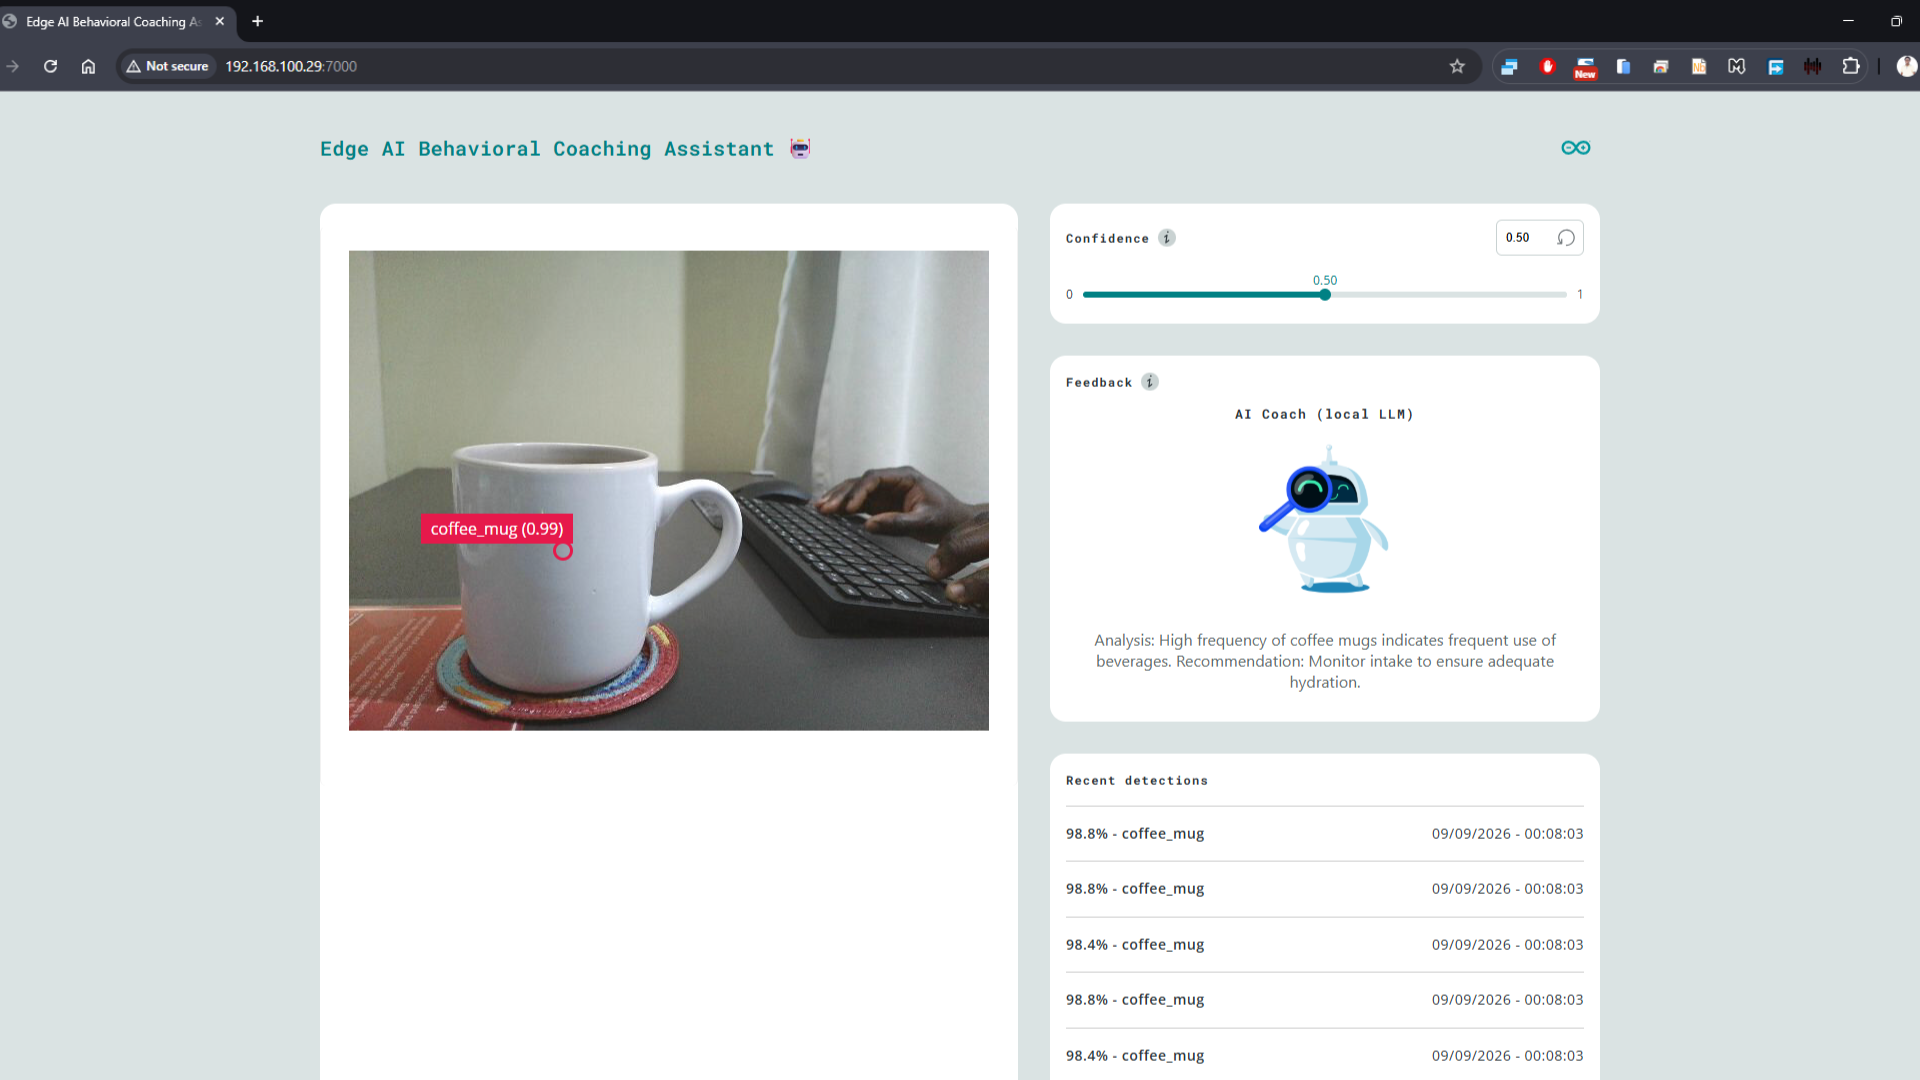
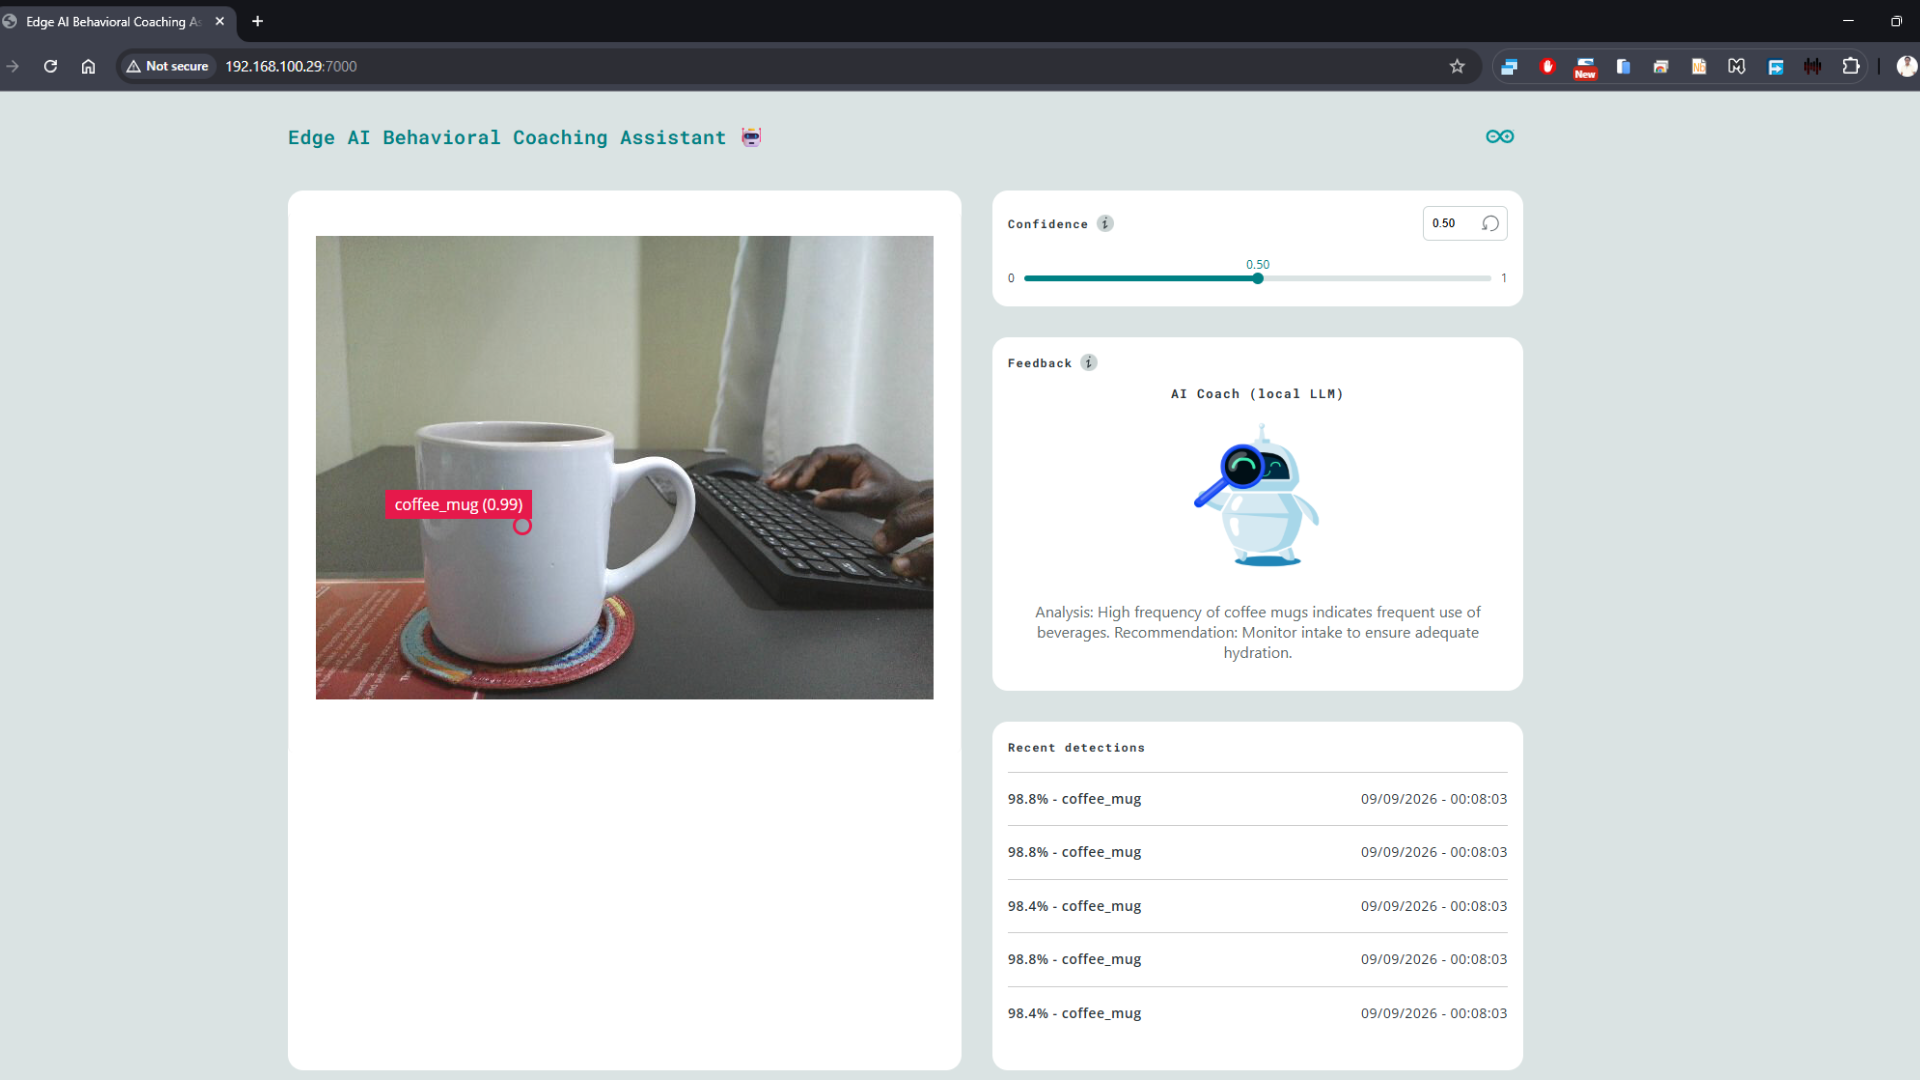
Updated README

Changed region(s): [[0.125, 0.1222, 0.8438, 1.0], [0.8125, 0.1222, 0.8438, 0.1528]]

diff --git a/python/main.py b/python/main.py
@@ -27,8 +27,6 @@ detection_stream = VideoObjectDetection(
 
 llm = LargeLanguageModel()
 
-
-# Log detected objects
 behavior_history = []
 last_coaching_time = time.monotonic()
 last_event_time = {}
@@ -93,29 +91,19 @@ def format_llm_response(raw_text):
         return ""
 
     text = str(raw_text).strip()
-
-    # Remove markdown formatting
-    text = re.sub(r"[*_`#]", "", text)
-
-    # Normalize line endings
-    text = text.replace("\r\n", "\n")
-
-    # Remove duplicated blank lines
-    text = re.sub(r"\n{2,}", "\n", text)
-
+    text = re.sub(r"[*_`#]", "", text) # Remove markdown formatting
+    text = text.replace("\r\n", "\n") # Normalize line endings
+    text = re.sub(r"\n{2,}", "\n", text) # Remove duplicated blank lines
     lines = [
         line.strip()
         for line in text.split("\n")
         if line.strip()
     ]
-
     analysis = None
     recommendation = None
 
     for line in lines:
-
         lower = line.lower()
-
         if lower.startswith("analysis:"):
             analysis = line[len("analysis:"):].strip()
 
@@ -129,14 +117,12 @@ def format_llm_response(raw_text):
             f"Recommendation: {recommendation}"
         )
 
-    # Fallback: try to extract old formats
+    # Try to extract old formats
     pattern = None
     coaching = None
 
     for line in lines:
-
         lower = line.lower()
-
         if lower.startswith("pattern:"):
             pattern = line[len("pattern:"):].strip()
 
@@ -164,7 +150,6 @@ def run_coaching_sync(events, duration_seconds):
     is_llm_running = True
 
     try:
-
         print()
         print("[LLM process] ====== STARTING AI BEHAVIORAL COACH ======")
 
@@ -173,14 +158,10 @@ def run_coaching_sync(events, duration_seconds):
         print()
         print("[LLM process] Aggregated observations:")
         print(aggregated_summary)
-
         prompt = create_coaching_prompt(aggregated_summary)
-
         print()
         response = llm.chat(prompt)
-
         clean_response = format_llm_response(response)
-
         print("[LLM process] AI Coach response:")
         print(clean_response)
 
@@ -233,7 +214,6 @@ def on_detection(detections):
             }
         )
 
-
         # Debounce object detections
         previous_time = last_event_time.get(key)
         if (
@@ -253,9 +233,7 @@ def on_detection(detections):
 
         print(f"[Debug] Detected object recorded {timestamp} | {key}")
 
-
-    # Check LLM prompting timer
-    elapsed_seconds = (current_time - last_coaching_time)
+    elapsed_seconds = (current_time - last_coaching_time) # Check LLM prompting timer
 
     if elapsed_seconds < AI_COACHING_INTERVAL_SECONDS:
         return
@@ -263,7 +241,6 @@ def on_detection(detections):
     # Prompt LLM if observations exist
     if behavior_history:
         events_to_analyze = list(behavior_history)
-
         run_coaching_sync(events_to_analyze,elapsed_seconds)
 
     else:

diff --git a/README.md b/README.md
@@ -2,17 +2,17 @@
 
 ![Detect objects and describe them](assets/docs_assets/cover-image.png)
 
-This project demonstrates how we can leverage modern hardware and optimized software such as TinyML models and Small Language Models (SLMs) to create sustainable AI powered coaching assistants that run on cost effective devices such as Arduino UNO Q.
+This project demonstrates how we can leverage modern hardware and optimized software such as TinyML models and Small Language Models (SLMs) to create sustainable AI powered behavioral coaching assistants that run on cost effective hardware such as an Arduino UNO Q.
 
-The project uses a perception model (TinyML model) to observe activities and the classifications are stored over time into a simple observations list. Afterwards, the system periodically summarizes the last observations into a simple activity-descriptive text that is provided to an LLM for generating a short behavioral recommendation. Summarizing the observation enables us to reduce the amount of information passed to the LLM, reducing the prompt size and response duration.
+The project uses a perception layer (lightweight object detection) to observe activities and the detections are stored over time into a simple observations list. Afterwards, the system periodically summarizes observations into a simple activity-descriptive text that is provided to an SLM for generating a short behavioral recommendation such as "Drink more water and use coffee less frequently". Summarizing the observation enables us to reduce the amount of information passed to the SLM, reducing the prompt size and computing time.
 
-In this case, the perception model and language model serve different roles:
+In this case, the perception and language models serve different roles:
 
-Computer Vision model (What is happening?) → Behavioral Memory (Summarize what has been happening over time) → Large Language Model (Provide wellness-based recommendation)
+Perception layer (What is happening?) → Behavioral memory layer (Summarize what has been happening over time) → Small Language Model (Provide wellness-based recommendation)
 
 ![Project summary](assets/docs_assets/project-summary.png)
 
-For the current demonstration, the perception model is a simple object detection model that can detect a glass of water and coffee mug in a frame. Below is an example of the observations summary provided to the LLM:
+For the current demonstration, the perception layer uses a simple object detection model that can detect a glass of water and coffee mug in an image. Below is an example of the observations summary provided to the SLM. This is embedded in the prompt together with other instructions for the model:
 ```
 Observation period: approximately 60 seconds
 
@@ -22,7 +22,7 @@ Observed activities:
 ```
 
 > [!NOTE]
-> I focused on object detection and temporal aggregation rather than consumption tracking. For example, the application does not determine if a glass of water was picked, consumed and returned with less amount of water. This is the same case for detecting coffee mugs. The perception model simply detects visible objects and increments a counter over the observation duration. In future, there is need for advancing the activity recognition to distinguish the presence of an object and interactions with it.
+> I focused on object detection and temporal aggregation of observations count rather than consumption tracking. For example, the application does not determine if a glass of water was picked, consumed and returned with less amount of water. This is the same case for coffee mugs: detecting a mug does not mean that coffee was consumed. The perception model simply detects visible objects and records the observation. In future, there is need for advancing the activity recognition to distinguish the presence of an object and interactions with it.
 
 
 ## Hardware and Software Requirements
@@ -37,6 +37,8 @@ Observed activities:
 - Edge Impulse Studio
 - Arduino App Lab
 - Local Small Language Models available in App Lab:  Qwen, LLama, Gemma
+
+Qwen 3.5 0.8B was used for this project.
 
 ## How to Use the Application
 
@@ -57,7 +59,7 @@ git clone https://github.com/SolomonGithu/ai-behavioral-coaching-assistant.git
 
 3. In App Lab, click the Large Language Model (LLM) brick and navigate to the 'AI models' tab. Download and select one of the available models. For this project, I used Qwen 3.5 0.8B because it is relatively small and will be faster to get a response from it. Other supported models can also be used depending on your hardware and use case.
 
-![Install LLM](assets/docs_assets/download-llm.png)
+![Install LLM](assets/docs_assets/download-slm.png)
 
 4. Finally, start the application with the 'Run' button. Running the application for the first time will take some seconds since the system needs to download the necessary Docker images. Once this is finished the application's container will be started and the Web UI will automatically open in a browser. You can also open the Web UI manually in a browser by setting URL to the local IP address of your Arduino UNO Q and port 7000.
 
@@ -67,7 +69,7 @@ Once the app is running, it will:
 - Display the detected objects in the Web UI.
 - Store observations as behavioral events for the defined duration (```AI_COACHING_INTERVAL_SECONDS``` variable in main.py)
 - Periodically summarize observations.
-- Provide the observations summary to the local language model. *In my setup, response time from the LLM was around 60 seconds, peak CPU utilization was approximately 94% while RAM consumption was 1.25GB out of the available 3.58GB.*
+- Provide the observations summary to the local language model. *In my setup, response time from the SLM was around 60 seconds, peak CPU utilization was approximately 95% while RAM consumption was 1.25GB out of the available 3.58GB.*
 - Display the generated behavioral analysis and recommendation in the AI Coach interface.
 
 ## Results
@@ -80,6 +82,9 @@ Once the app is running, it will:
 2. Coffee mug is detected more frequently than glass of water:
 ![Screenshot 3](assets/docs_assets/screenshot_3.png)
 
-3. System logs:
-![LLM response](assets/docs_assets/llm-response.png)
+3. Coffee or water?
+![Coffee or water](assets/docs_assets/coffee_or_water.png)
+
+4. System logs:
+![LLM response](assets/docs_assets/slm-response.png)
 
